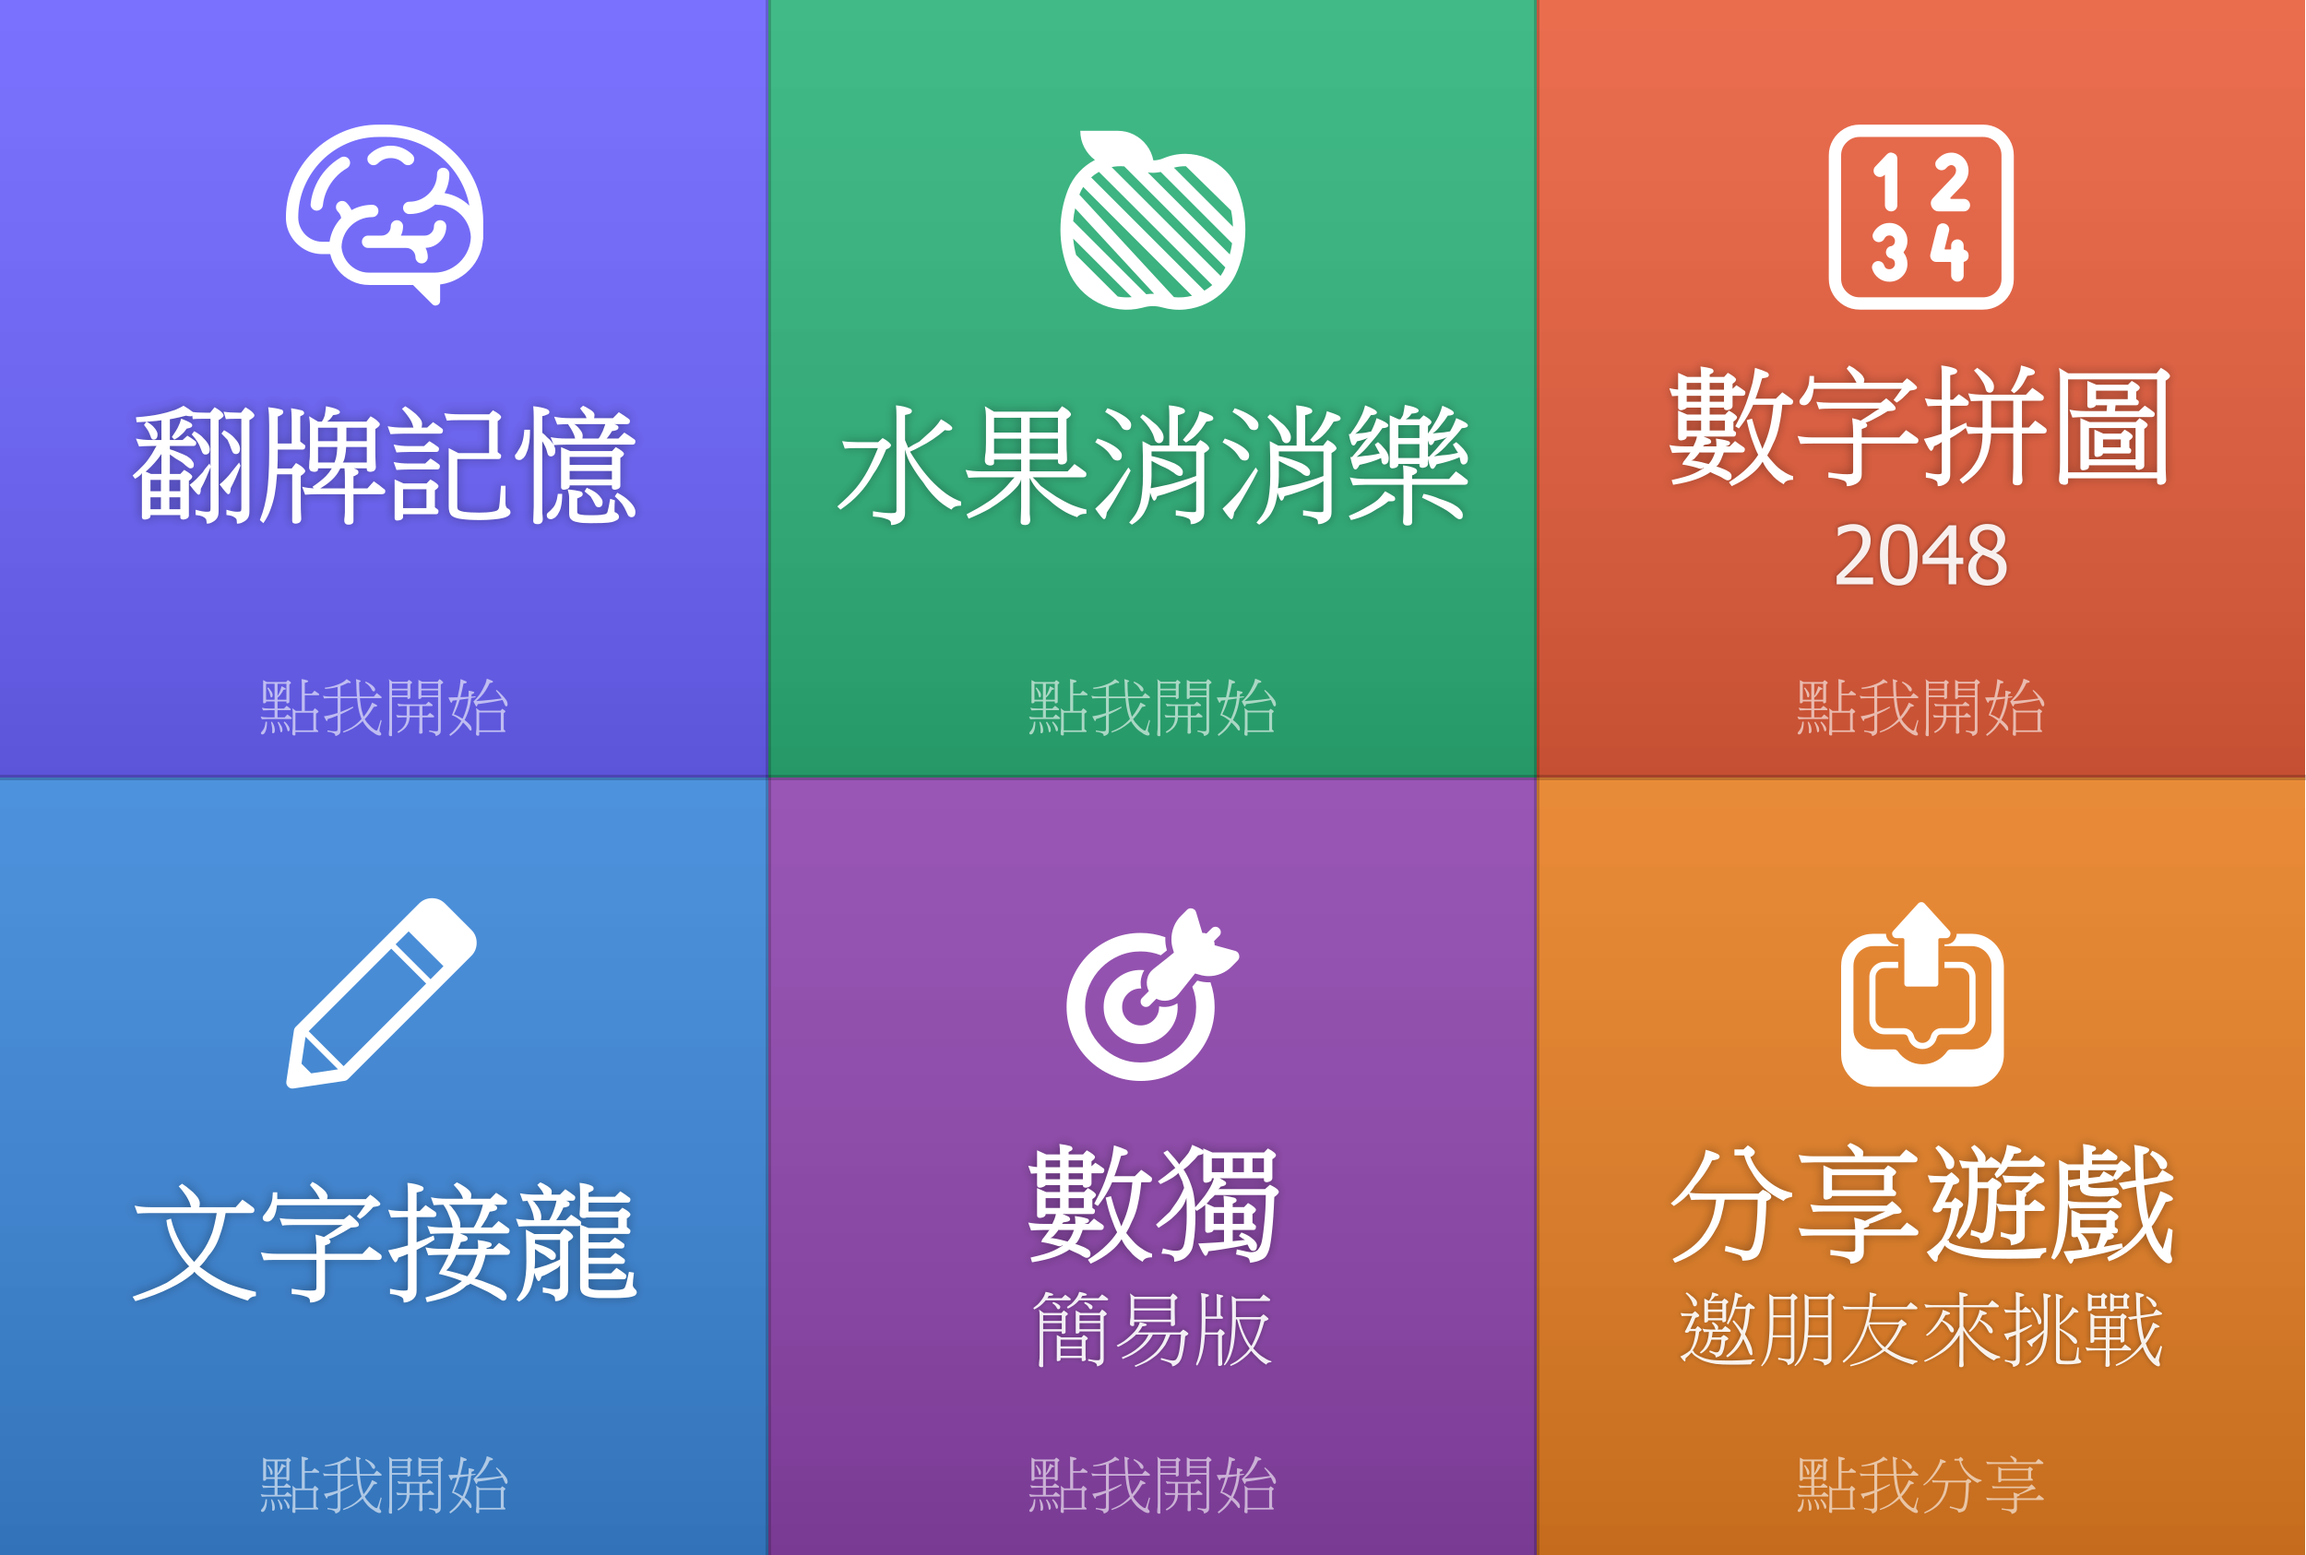
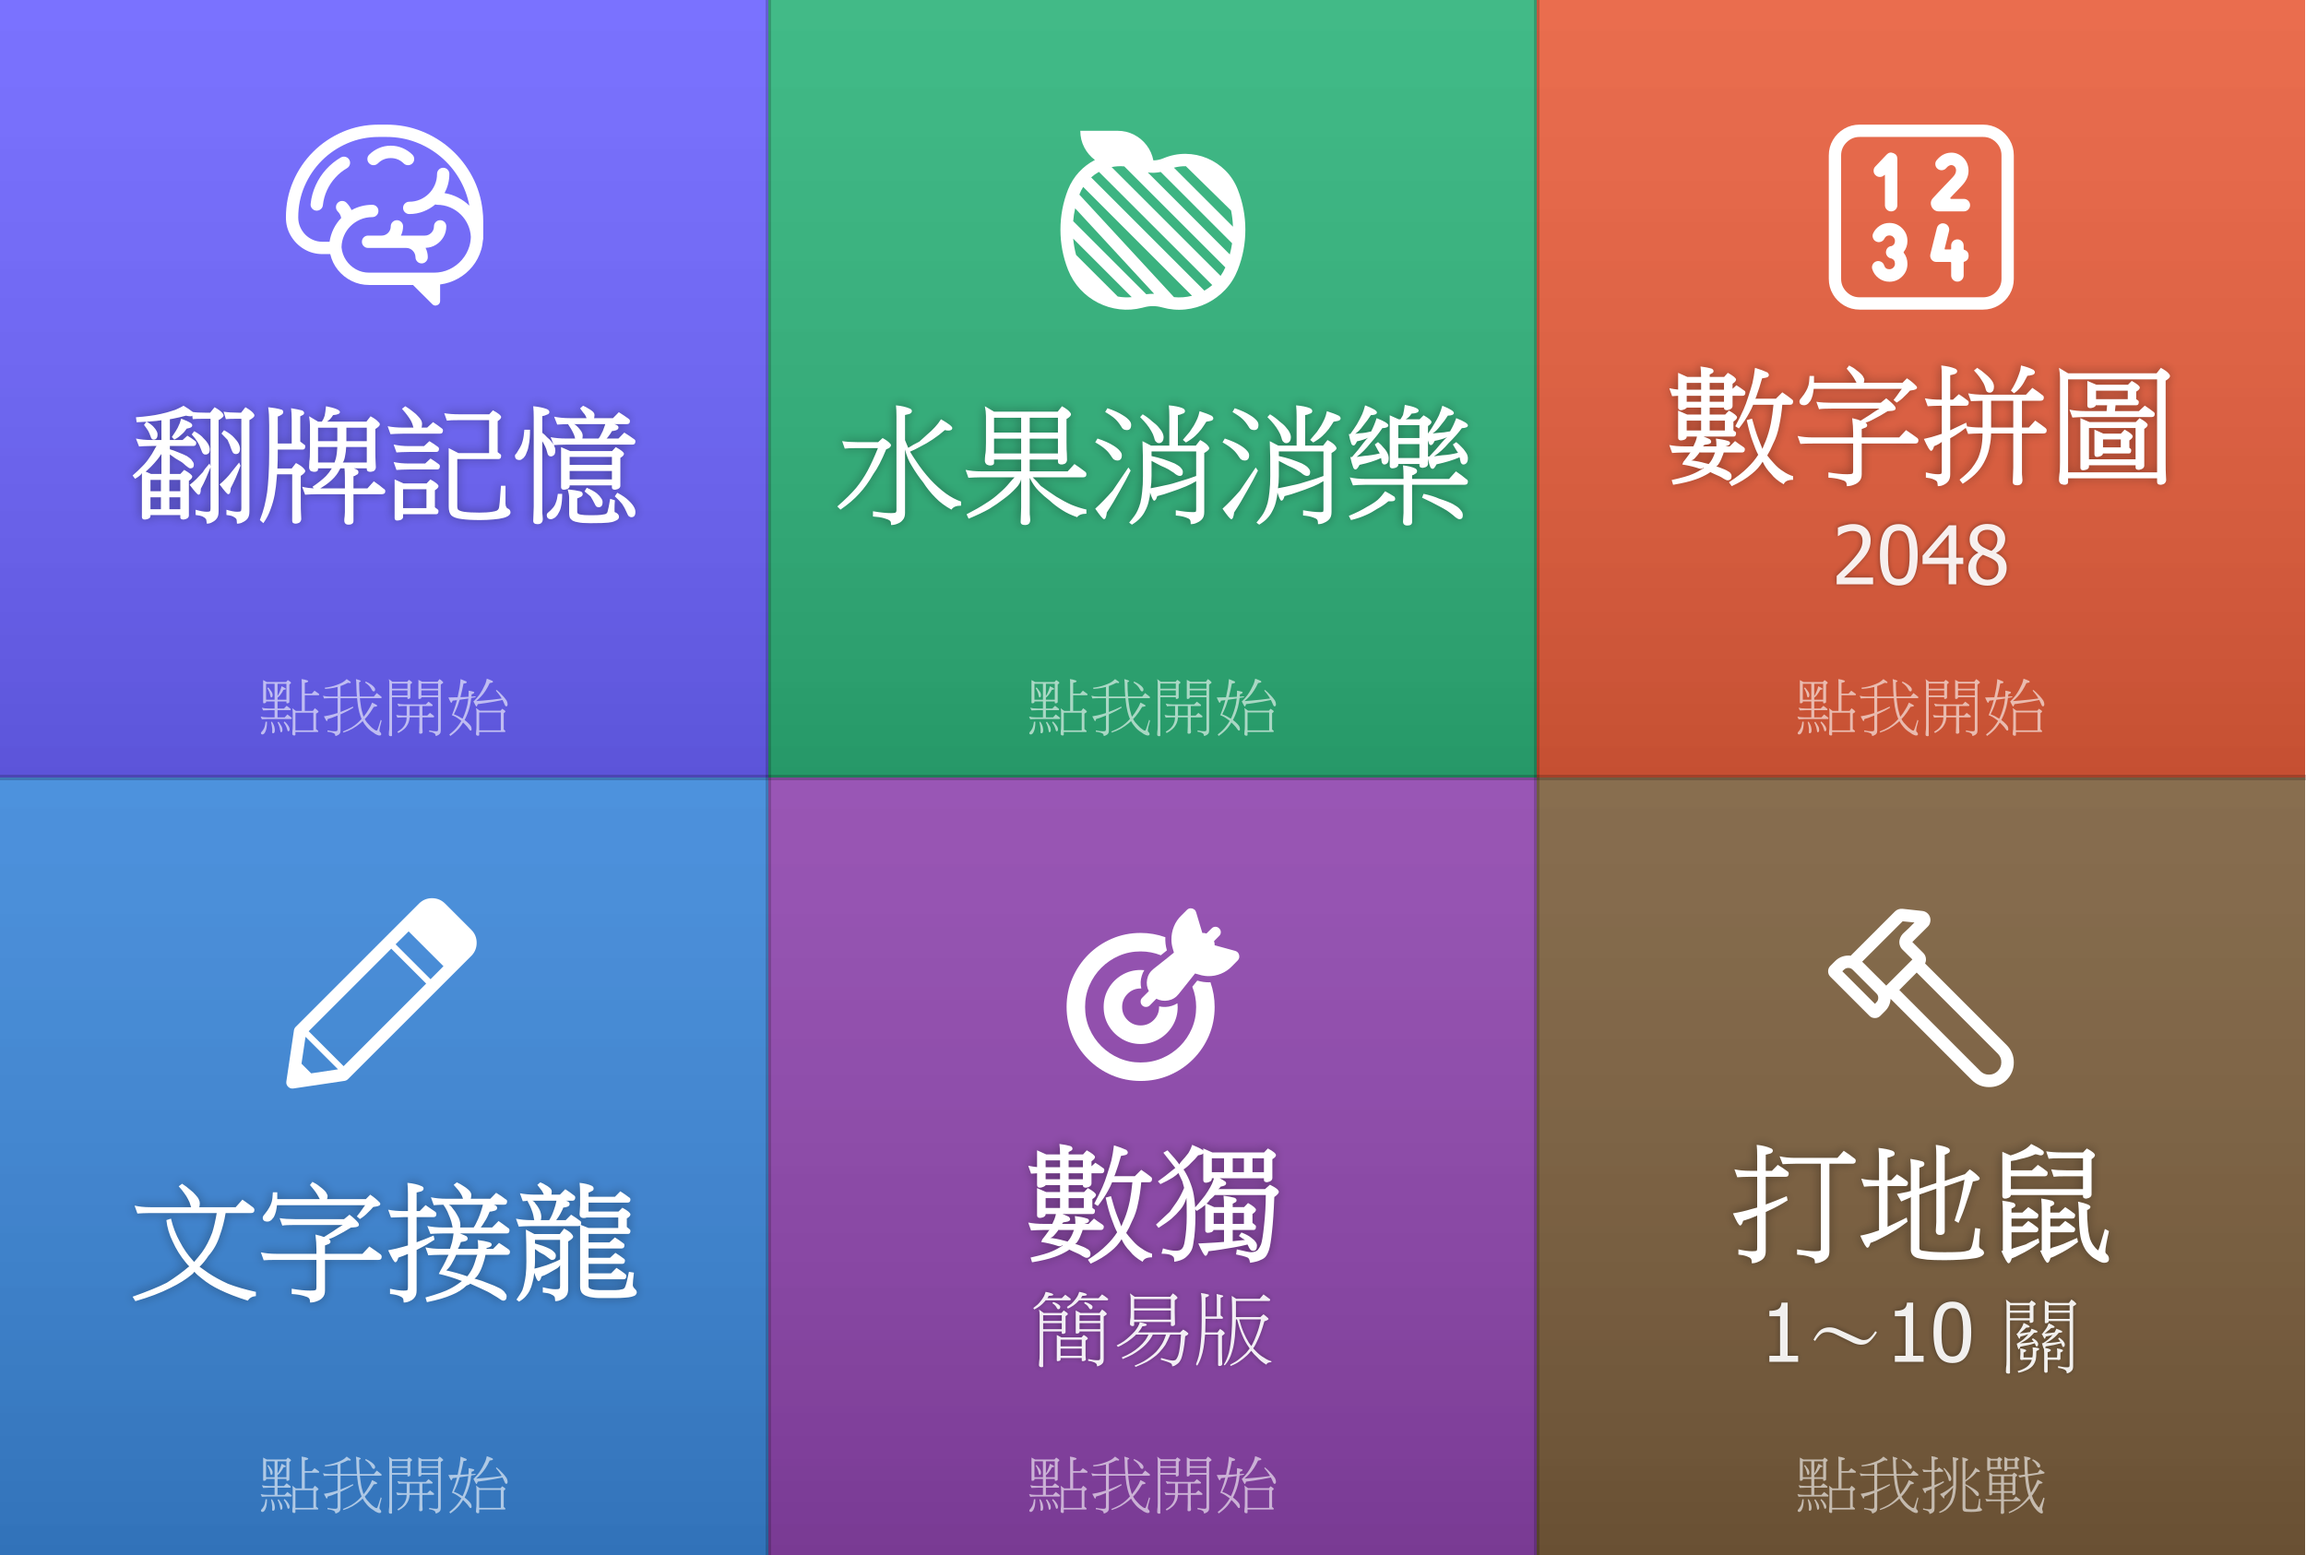
feat: rich menu 第六格圖片更新為打地鼠
generate_richmenu.js 第六格改為打地鼠（1～10 關，棕色底），
重新生成 richmenu.png 並上傳至 LINE。

Changed region(s): [[0.6552, 0.4935, 1.0, 1.0]]

diff --git a/push/generate_richmenu.js b/push/generate_richmenu.js
@@ -18,7 +18,7 @@ const games = [
   { label: '數字拼圖',   sub: '2048',       hint: '點我開始', icon: '🔢', color: '#E85D3B' },
   { label: '文字接龍',   sub: '',           hint: '點我開始', icon: '✏', color: '#3A86D9' },
   { label: '數獨',       sub: '簡易版',     hint: '點我開始', icon: '🎯', color: '#8E44AD' },
-  { label: '分享遊戲',   sub: '邀朋友來挑戰', hint: '點我分享', icon: '📤', color: '#E67E22' },
+  { label: '打地鼠',     sub: '1～10 關',    hint: '點我挑戰', icon: '🔨', color: '#7B5E3C' },
 ];
 
 const canvas = createCanvas(W, H);
